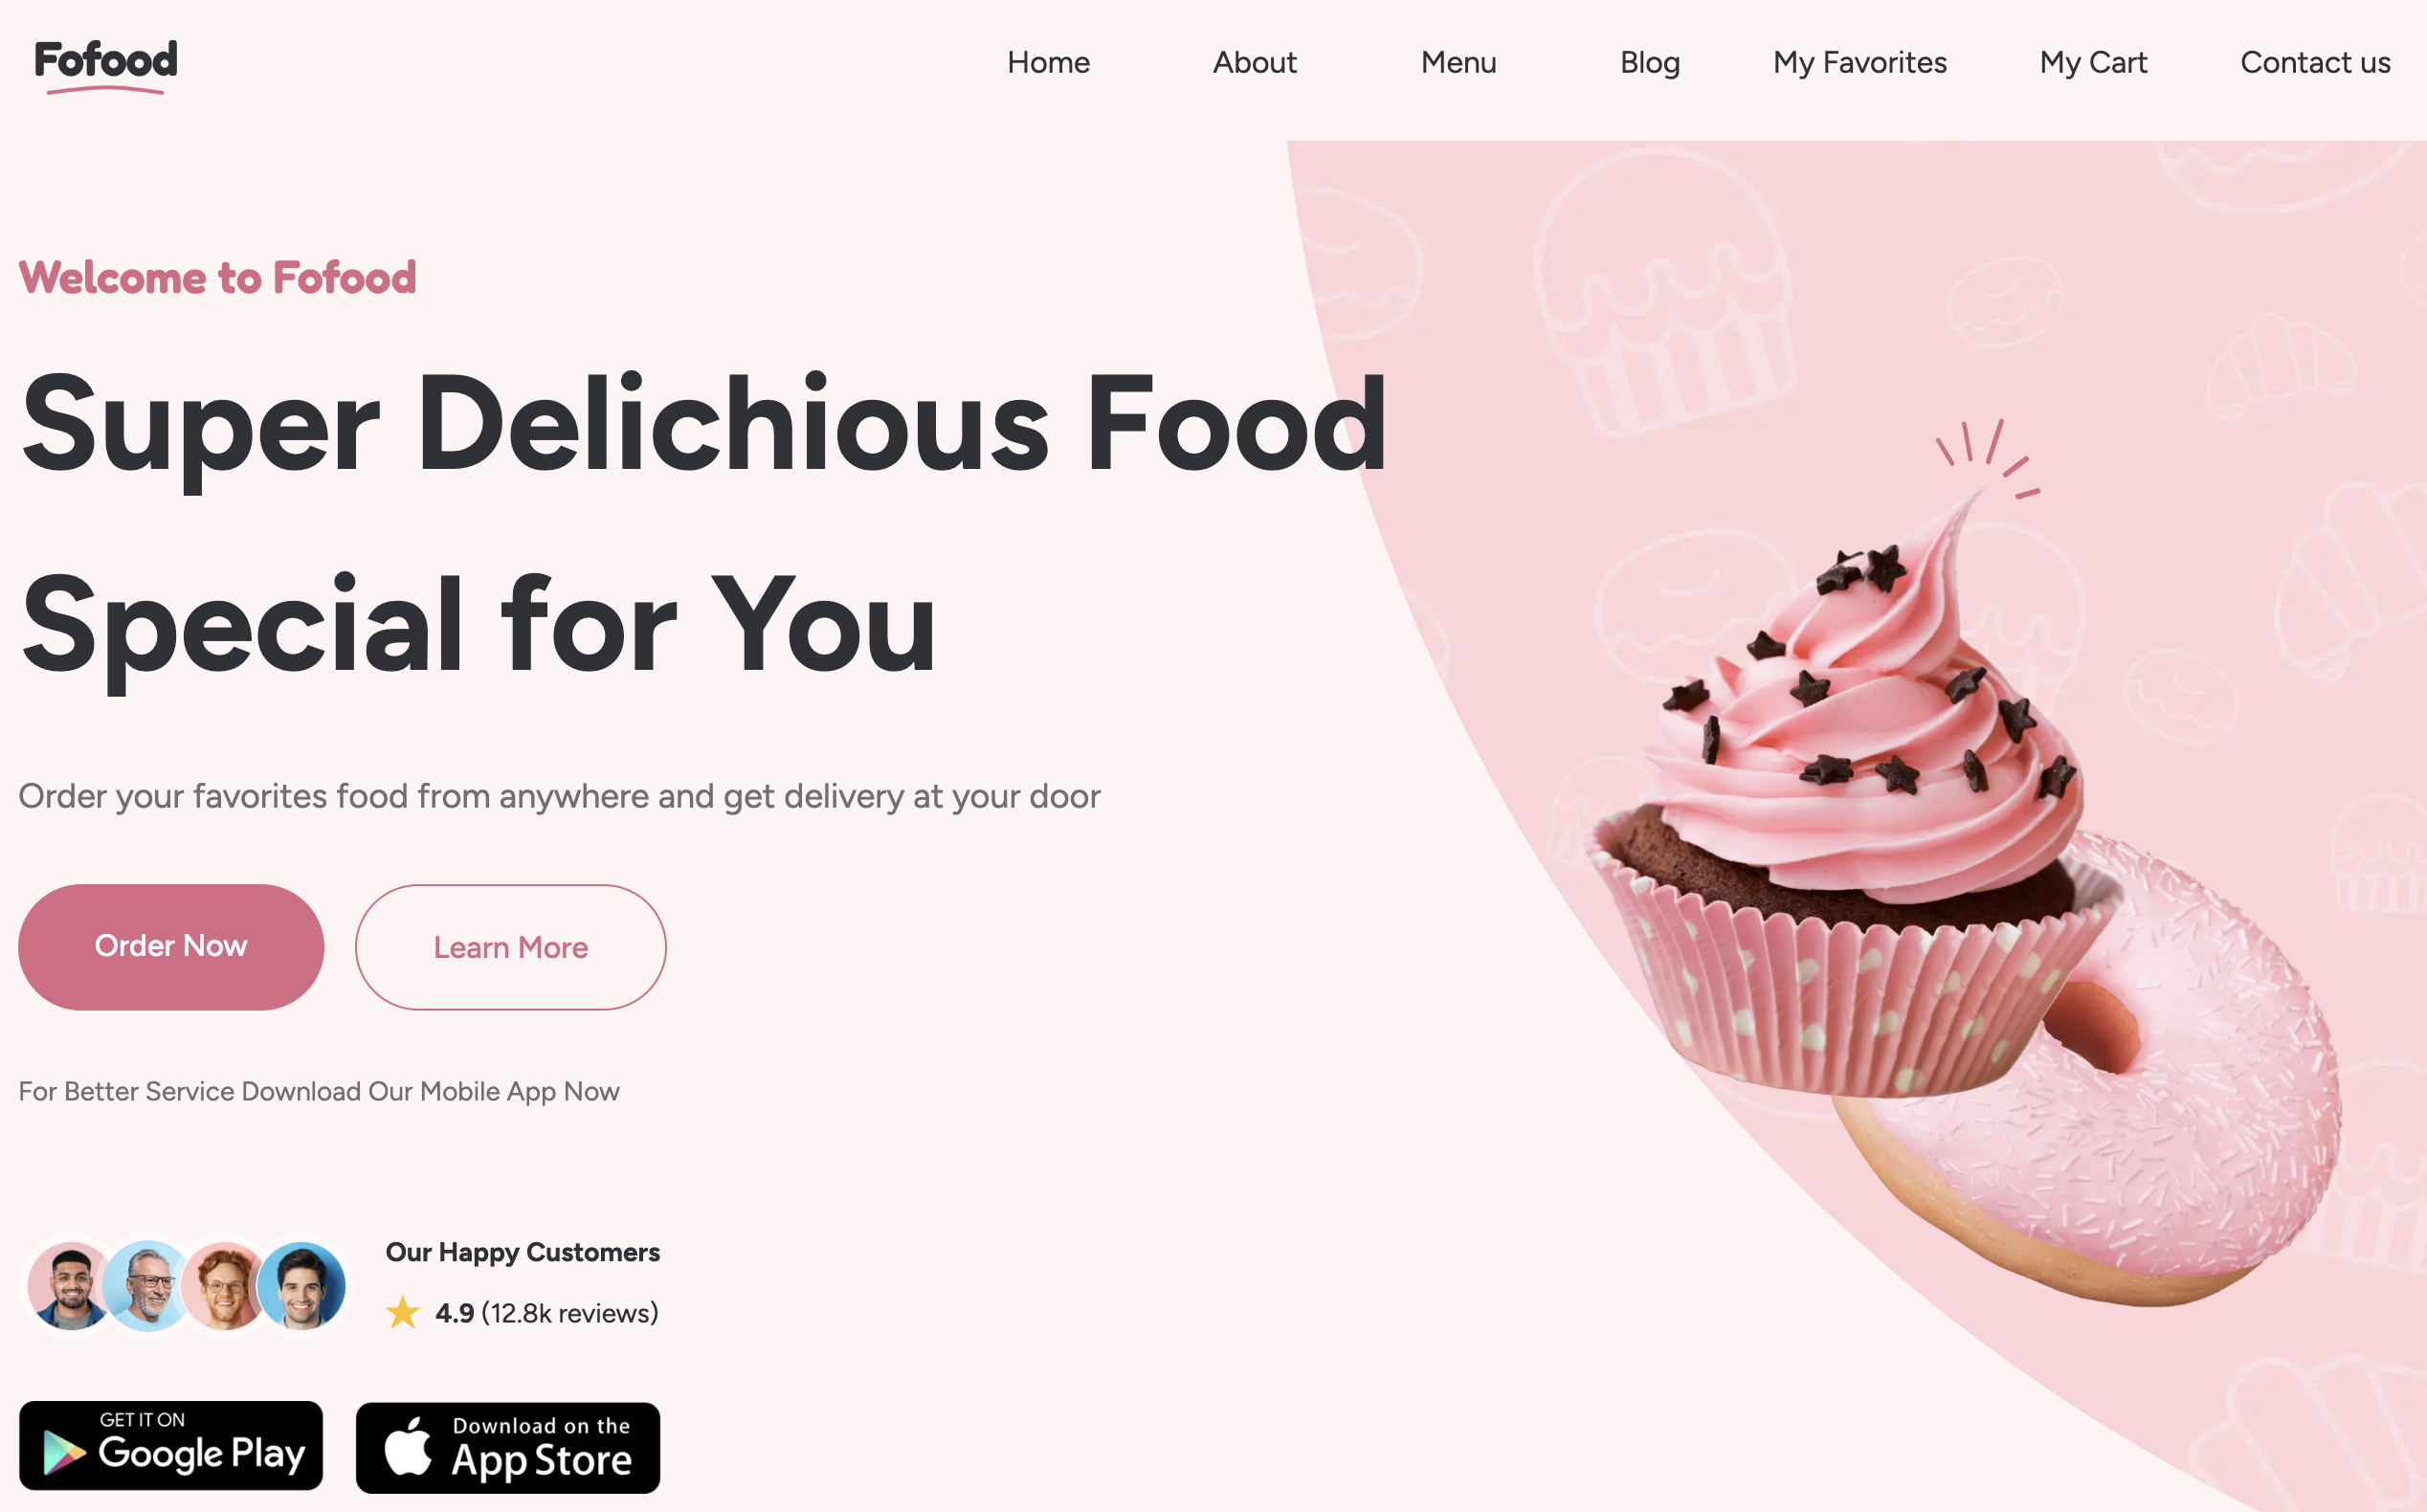
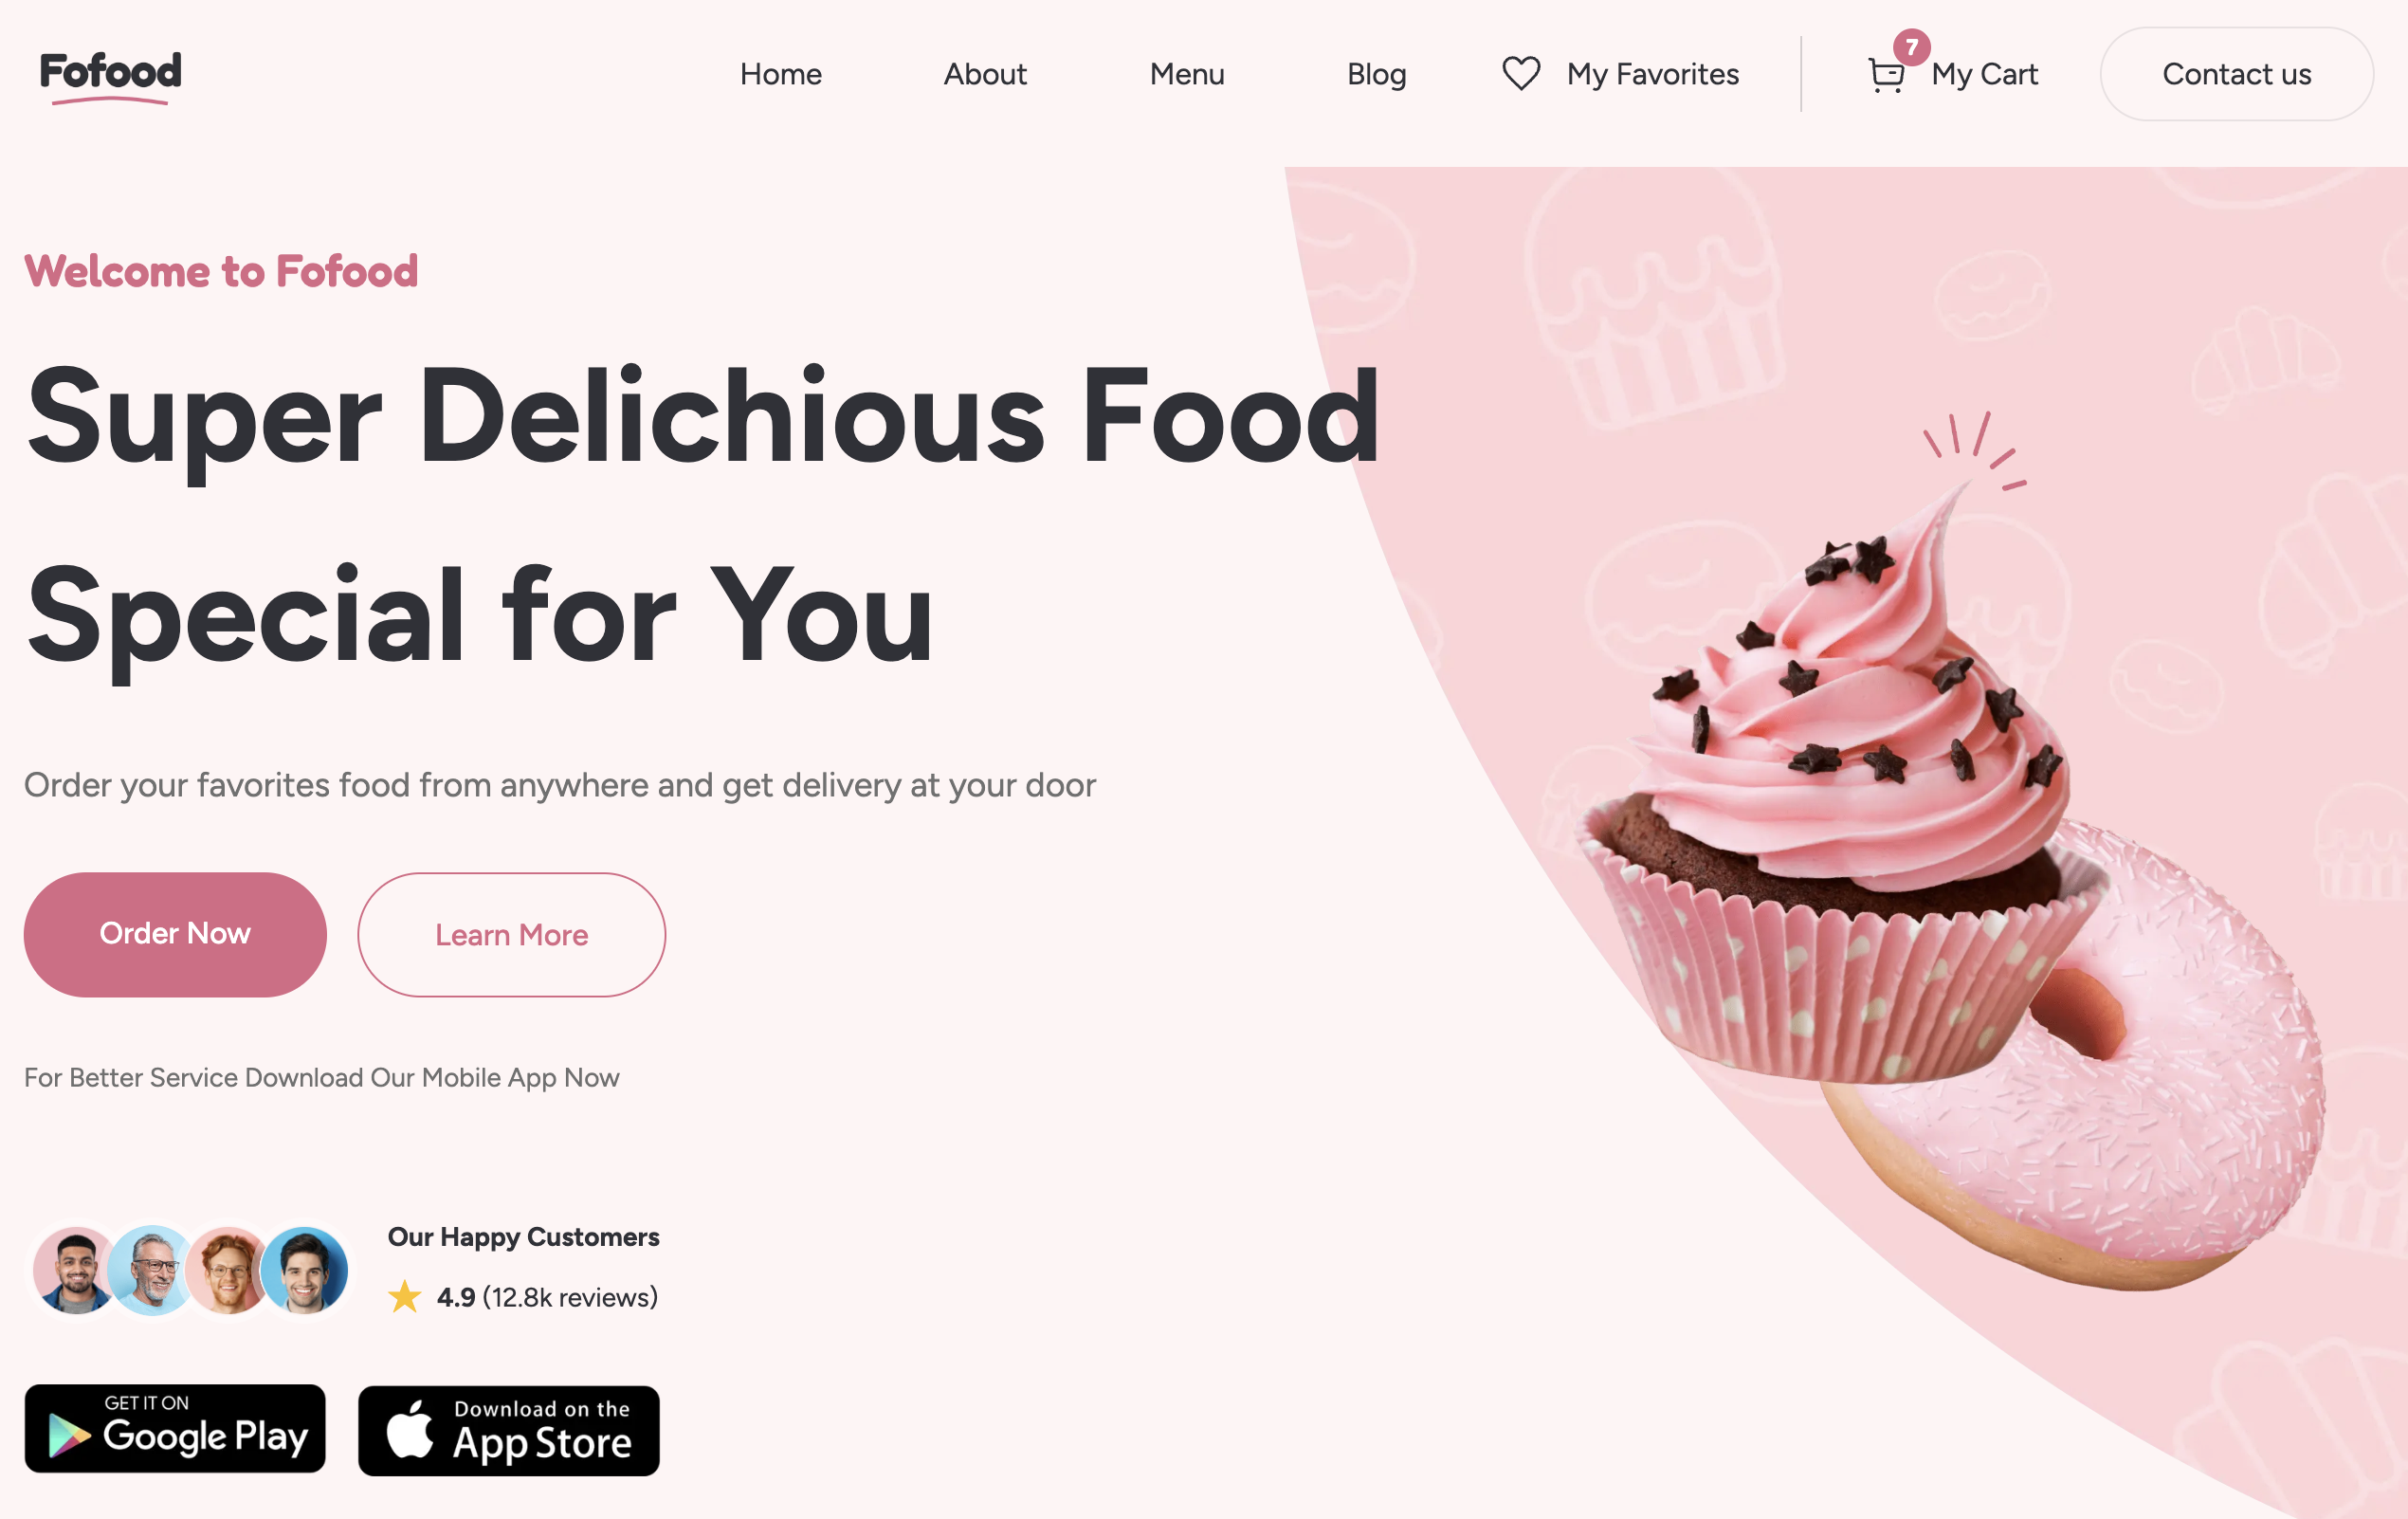
Update readme

diff --git a/README.md b/README.md
@@ -62,4 +62,9 @@ Run the development server:
 ```
 npm run dev
 ```
+## Notes
 
+This is a pet project created for learning and portfolio purposes.
+The data is currently hardcoded, but the structure is prepared so it can be connected to an API or CMS in the future.
+
+Some loading states include a small demo delay to showcase skeleton screens during page transitions.